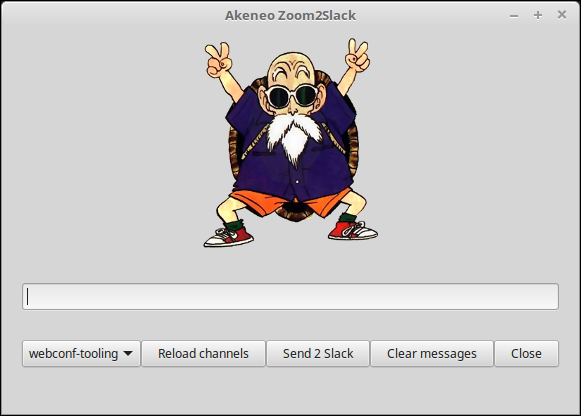
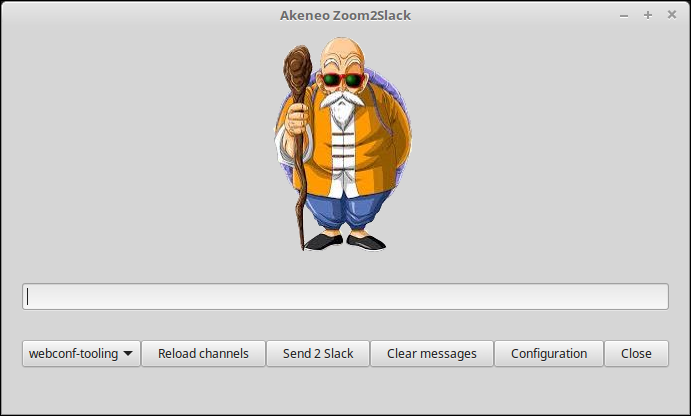
GITHUB-14: update documentation

diff --git a/README.md b/README.md
@@ -47,6 +47,10 @@ Message sent:
 
 ![Sent](doc/img/sent_to_channel.png)
 
+Configuration window:
+
+![Sent](doc/img/configuration.png)
+
 ## Demo:
 
 [MP4 video](doc/demo.mp4)
